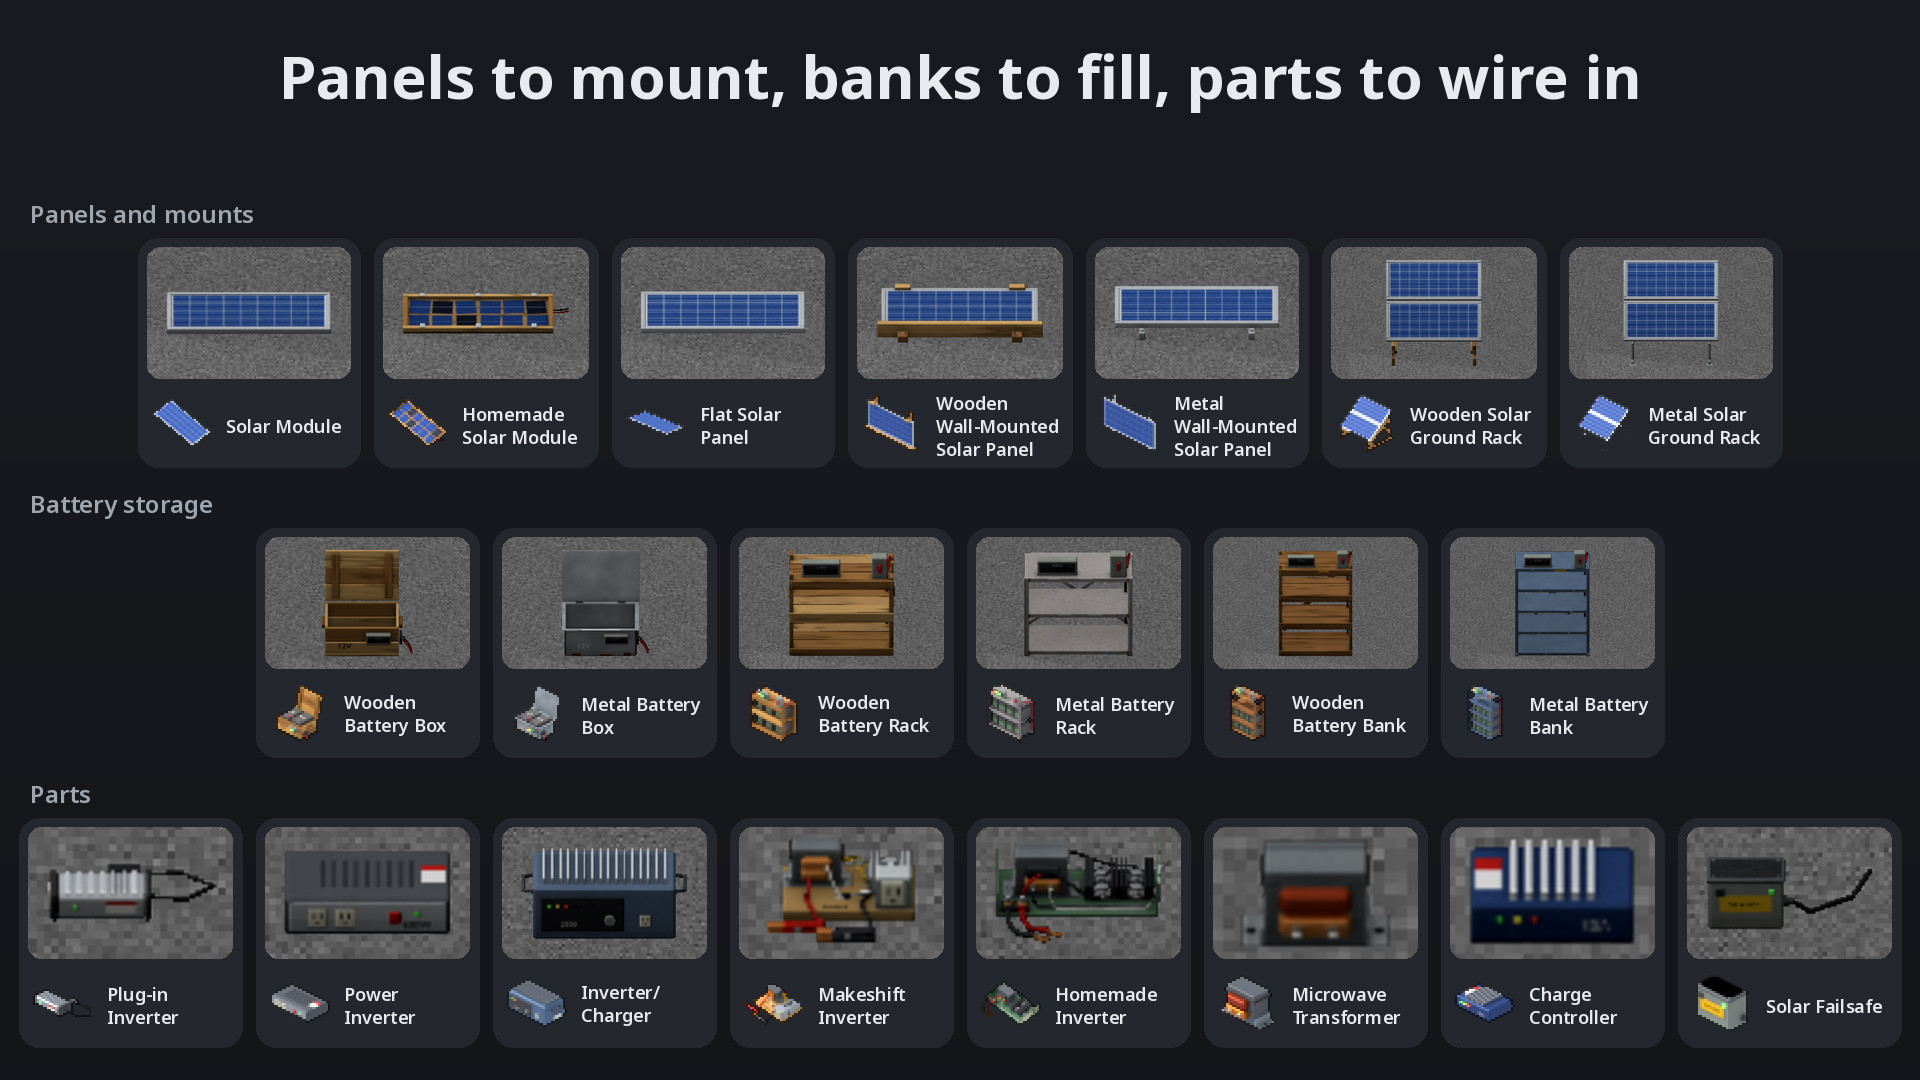
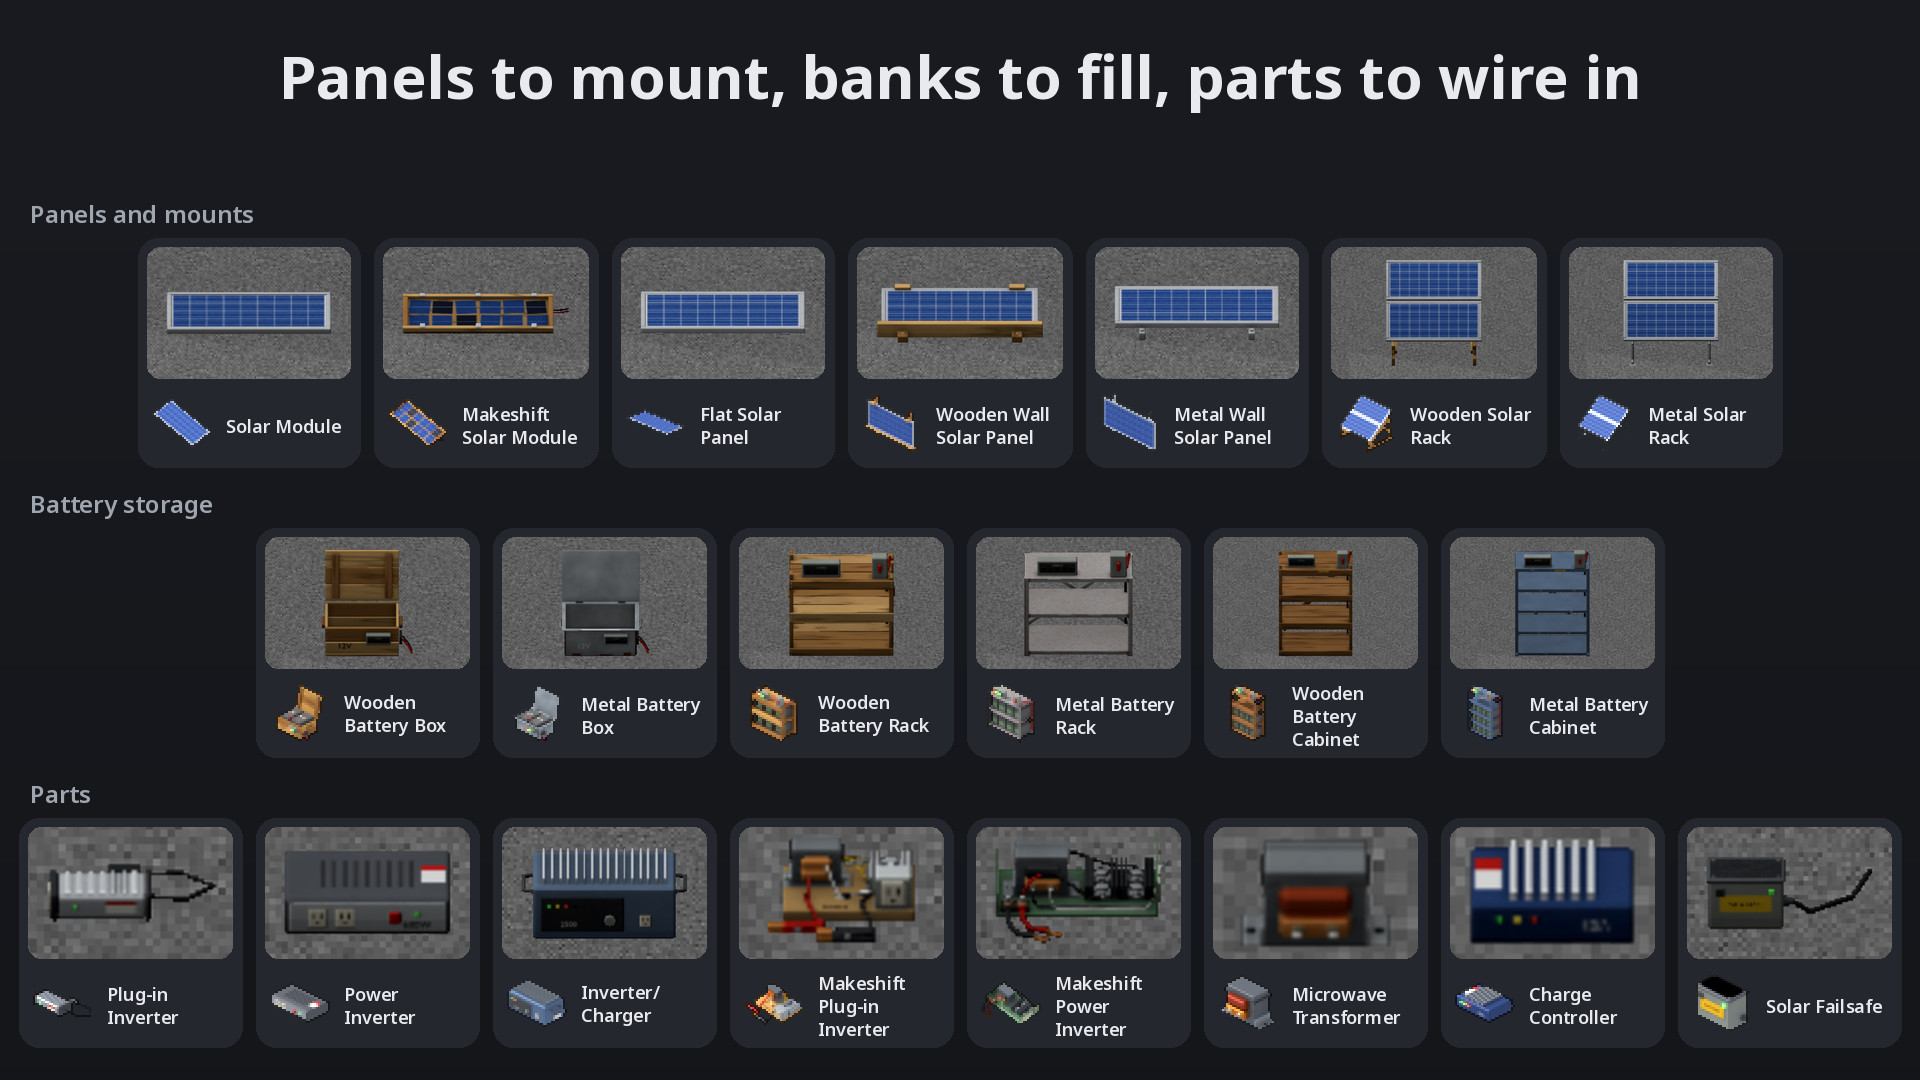
Recipe images remade: no glue twin, adhesives glue first, Take Out Window Glass shown taking a window (harness catalog moveables); recapture whenever items or recipes change; harness 81a583e

diff --git a/art/promo/compose.py b/art/promo/compose.py
@@ -5,8 +5,8 @@
 # ///
 """Lays out the README and Workshop images from the captures `dev/run-debug-client.sh --promo`
 saved, with the harness's lib/promo.py (dev/harness/docs/workshop-page.md, "Laying out the
-images"). Rerun it after editing a layout; recapture only when the game's look or the mod's names
-change:
+images"). Rerun it after editing a layout; recapture when the game's look, the mod's names, items
+or recipes change (that doc says which groups):
 
     art/promo/compose.py
 

diff --git a/DEVELOPMENT.md b/DEVELOPMENT.md
@@ -345,5 +345,5 @@ Code kept only so older saves load, to delete once they needn't:
 
 1. `dev/static-check.sh`, `dev/validate-server.sh` and `dev/run-debug-client.sh --test` must pass.
 2. Bump `modversion` in `42/mod.info`. Raise `versionMin` when the mod starts depending on a newer game version.
-3. Update `README.md`, then run `dev/workshop-txt.sh`, `dev/run-debug-client.sh --promo` if the look or the names changed, and `dev/review.sh` to read the result.
+3. Update `README.md`, then run `dev/workshop-txt.sh`, `dev/run-debug-client.sh --promo` and `art/promo/compose.py` if the look, the names, the items or the recipes changed since the last capture (`dev/harness/docs/workshop-page.md`, "Laying out the images"), and `dev/review.sh` to read the result.
 4. Upload from the in-game Workshop screen, then `dev/workshop-gallery.sh --upload` if the gallery changed.
